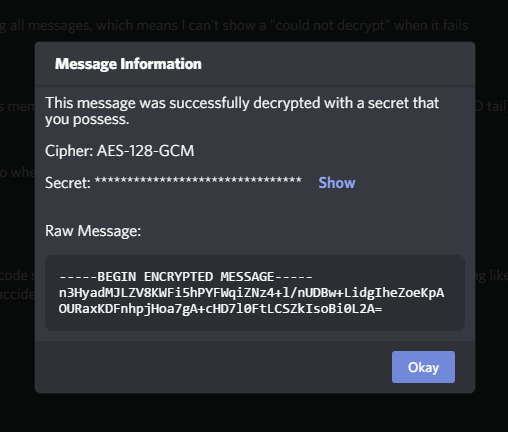
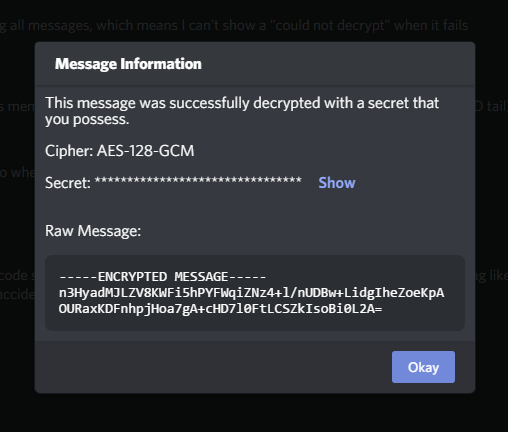
Show info on decryption error and updated README

Changed region(s): [[0.1772, 0.6319, 0.5315, 0.662]]

diff --git a/encryption.plugin.js b/encryption.plugin.js
@@ -34,7 +34,7 @@ class DiscordEncryption {
         this.messageSelector =
             '.da-message .da-content .da-container .da-markup:not(.da-embedContentInner)';
         this.textareaSelector = '.da-chat .da-content form textarea';
-        this.encryptionHeader = '-----BEGIN ENCRYPTED MESSAGE-----';
+        this.encryptionHeader = '-----ENCRYPTED MESSAGE-----';
     }
 
     getName() {
@@ -194,10 +194,16 @@ class DiscordEncryption {
                 color: #1C9C6D;
                 cursor: pointer;
             }
+            .encryption-icon.error {
+                color: #9C3C3C;
+            }
             .show-secret-button {
                 cursor: pointer;
                 color: #92a9fa;
                 font-weight: 600;
+            }
+            .red-text {
+                color: #ac5c5c;
             }
             `
         );
@@ -448,7 +454,15 @@ class DiscordEncryption {
             this.config.secrets &&
             this.config.secrets.length
         ) {
-            var result = `Could not be decrypted`;
+            var result = `<span class="encryption-icon error">&#9888;</span>&nbsp;&nbsp;&nbsp;<div class="encryption-info">
+                This message could not be decrypted properly<br /><br />
+                This can happen for one or more of the following reasons:<br />
+                1. You do not have the secret that was used to encrypt this message<br />
+                2. The sender included the encrypted message header on a non-encrypted plaintext message<br />
+                3. The message was encrypted wrongly or the encrypted data is corrupted<br /><br /><br />
+                Raw Message:<br /><br />
+                <code>${text}</code>
+            </div><span class="red-text">Could not decrypt message</span>`;
             for (var secret of this.config.secrets) {
                 try {
                     result = `<span class="encryption-icon">&#128274;</span>&nbsp;&nbsp;&nbsp;<div class="encryption-info">

diff --git a/README.md b/README.md
@@ -9,7 +9,8 @@ Configurable end to end encryption for Discord.
 This project was originally inspired by [Hmeritt's discord-encryption](https://github.com/Hmerritt/discord-encryption)
 
 **DO NOT actually use the above linked project. I have found the source code to violate security conventions and intentionally obfuscate or confuse implemented functionality, pointing to ill intention or (hopefully) just negligence on the author's part.**
-**Although this current project also has some unpleasant characteristics (single file, JQuery hacks for UI), it follows good practices to the best of its ability, and I encourage users to review the source code before using it**
+
+**Although this current project also has some unpleasant characteristics (single file, JQuery hacks for UI), it follows good practices to the best of its ability, and I encourage users to review the source code before using it.**
 
 ## Installation
 * You will need [Bandaged BetterDiscord](https://rauenzi.github.io/BetterDiscordApp/), which will exist alongside your existing Discord installation. Install this first if you don't have it.
@@ -18,9 +19,32 @@ This project was originally inspired by [Hmeritt's discord-encryption](https://g
 
 ## Usage
 * Left click on the padlock icon next to the message textbox to toggle encryption on or off for your outgoing messages.
+
+<p align="center">
+  <img src="https://raw.githubusercontent.com/EnKrypt/DiscordEncryption/master/images/lock-icon-on.png">
+</p>
+
+<p align="center">
+  <img src="https://raw.githubusercontent.com/EnKrypt/DiscordEncryption/master/images/lock-icon-off.png">
+</p>
+
 * Right click the padlock icon to configure your secret keys. All messages will be automatically decrypted as long as you have the right key.
-* The first key you on enter at the bottom is your primary secret key (shown in green). This will be used to encrypt your outgoing messages when encryption is on.
-* You can click on the info icon next to decrypted messages to see more information about the raw message and decryption process.
+
+<p align="center">
+  <img src="https://raw.githubusercontent.com/EnKrypt/DiscordEncryption/master/images/auto-decrypt.png">
+</p>
+
+* The first key you enter at the bottom is your primary secret key (shown in green). This will be used to encrypt your outgoing messages when encryption is on.
+
+<p align="center">
+  <img src="https://raw.githubusercontent.com/EnKrypt/DiscordEncryption/master/images/secrets-config.png">
+</p>
+
+* You can click on the icon next to successfully or failed decrypted messages to see more information.
+
+<p align="center">
+  <img src="https://raw.githubusercontent.com/EnKrypt/DiscordEncryption/master/images/message-info.png">
+</p>
 
 ## TODO
 * Support for light theme (Pull Requests are welcome)
